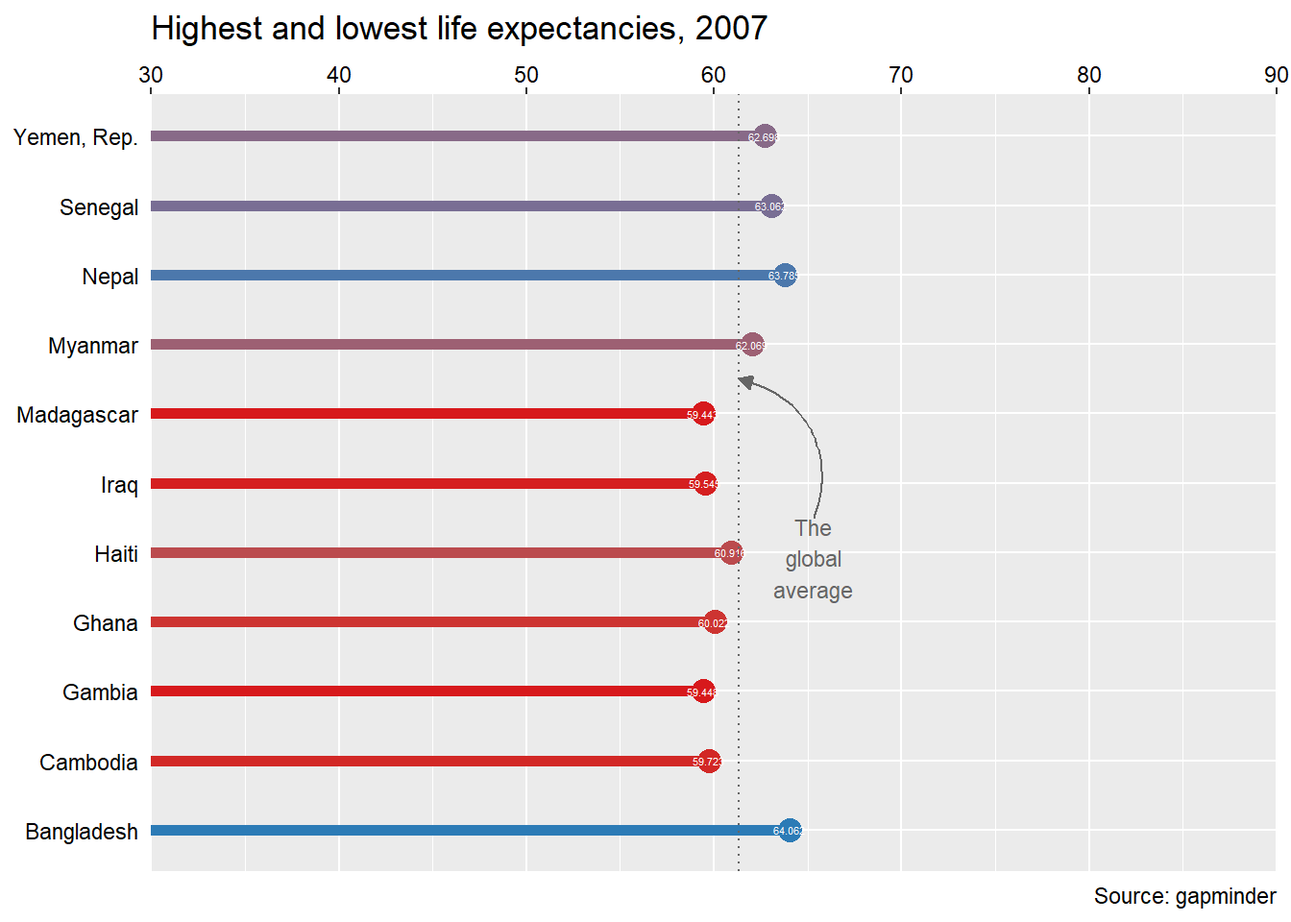
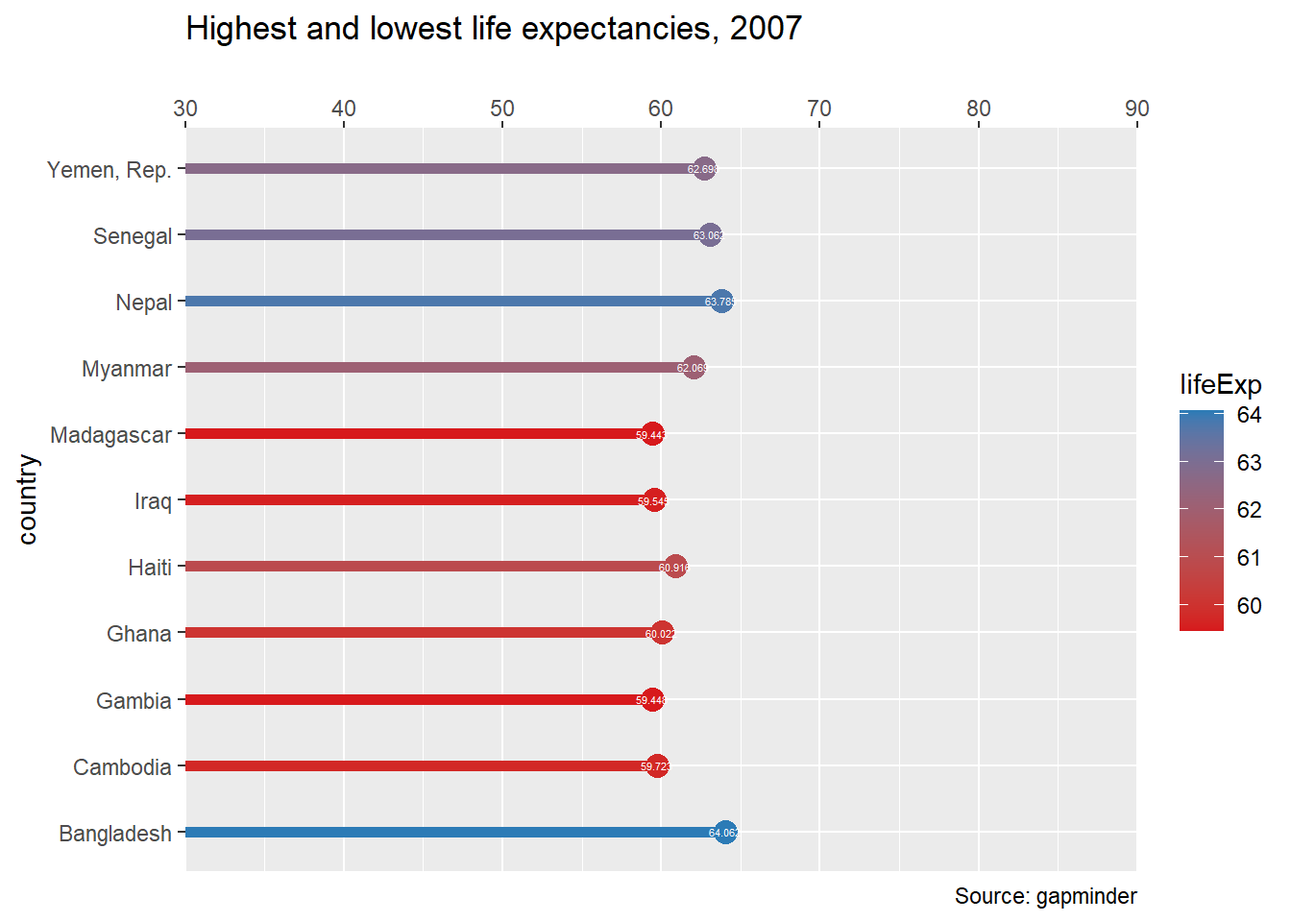
a

diff --git a/content/post/2021-05-13-data-manipulation-with-dplyr/index.html b/content/post/2021-05-13-data-manipulation-with-dplyr/index.html
@@ -22,20 +22,21 @@ tags:
 <script src="{{< blogdown/postref >}}index_files/plotly-main/plotly-latest.min.js"></script>
 
 
-<div id="r-package" class="section level2">
-<h2>R Package</h2>
-<p>dplyr, ggplot2, plotly, readxl and knitr.</p>
-<p>Functions that were used:</p>
-<p>read_excel() for read excel files</p>
-<p>filter() in order to make subsets of our data</p>
-<p>mutate() Create new variables</p>
-<p>as.factor() covert a variable in factor</p>
-<p>glimpse similar to str() applied to a dataframe</p>
-<p>group_by() takes an existing tbl and converts it into a grouped tbl where operations are performed “by group”</p>
-<p>summarise() o summarize() creates a new data frame that will have
-one or more rows for each combination of grouping variables</p>
-<p>n() used from within summarise, mutate and filter</p>
-</div>
+<div style="text-align: justify">
+
+<div id="r-packages" class="section level1">
+<h1>R Packages</h1>
+<p>we gonna use dplyr, ggplot2, plotly, readxl and knitr in this example.</p>
+<p><strong>Functions that were used:</strong></p>
+<p><strong>read_excel():</strong> for read excel files.</p>
+<p><strong>filter():</strong> in order to make subsets of our data.</p>
+<p><strong>mutate():</strong> To create new variables.</p>
+<p><strong>as.factor():</strong> To convert a variable in factor.</p>
+<p><strong>glimpse similar to str():</strong> applied to a dataframe.</p>
+<p><strong>group_by():</strong> takes an existing tbl and converts it into a grouped tbl where operations are performed “by group”.</p>
+<p><strong>summarise() o summarize():</strong> creates a new data frame that will have
+one or more rows for each combination of grouping variables.</p>
+<p><strong>n():</strong> used from within summarise, mutate and filter.</p>
 <div id="import-data" class="section level2">
 <h2>Import Data</h2>
 <pre class="r"><code>datos&lt;-  read_excel(path = &quot;/Users/Juan Alfredo.DESKTOP-ETJ31JC/Documents/Universidad/Termino 2020 2S/R Samples/Pagina/credit.xlsx&quot;, sheet = 2)</code></pre>
@@ -137,6 +138,7 @@ one or more rows for each combination of grouping variables</p>
 <p>In this way we can’t drop Na’s because the rows have values.</p>
 <pre class="r"><code>dt&lt;- datos %&gt;% filter( `Tipo Producto`!=&quot;Sobregiro&quot;)  </code></pre>
 <p>If we filter by “Sobregiro” we drop the NA’s in this “case”.</p>
+</div>
 </div>
 <div id="group-by-class" class="section level1">
 <h1>Group By Class</h1>
@@ -531,8 +533,18 @@ one or more rows for each combination of grouping variables</p>
 <h1>Data visualization</h1>
 <pre class="r"><code>ggplotly(p1)</code></pre>
 <div id="htmlwidget-1" style="width:672px;height:480px;" class="plotly html-widget"></div>
-<script type="application/json" data-for="htmlwidget-1">{"x":{"data":[{"orientation":"v","width":0.9,"base":0,"x":[1],"y":[8392],"text":"Sucursal: SATELITE 1<br />obser:  8392<br />Sucursal: SATELITE 1","type":"bar","marker":{"autocolorscale":false,"color":"rgba(248,118,109,1)","line":{"width":1.88976377952756,"color":"transparent"}},"name":"SATELITE 1","legendgroup":"SATELITE 1","showlegend":true,"xaxis":"x","yaxis":"y","hoverinfo":"text","frame":null},{"orientation":"v","width":0.9,"base":0,"x":[2],"y":[4110],"text":"Sucursal: SATELITE 2<br />obser:  4110<br />Sucursal: SATELITE 2","type":"bar","marker":{"autocolorscale":false,"color":"rgba(0,186,56,1)","line":{"width":1.88976377952756,"color":"transparent"}},"name":"SATELITE 2","legendgroup":"SATELITE 2","showlegend":true,"xaxis":"x","yaxis":"y","hoverinfo":"text","frame":null},{"orientation":"v","width":0.9,"base":0,"x":[3],"y":[17864],"text":"Sucursal: SUCURSAL MAYOR<br />obser: 17864<br />Sucursal: SUCURSAL MAYOR","type":"bar","marker":{"autocolorscale":false,"color":"rgba(97,156,255,1)","line":{"width":1.88976377952756,"color":"transparent"}},"name":"SUCURSAL MAYOR","legendgroup":"SUCURSAL MAYOR","showlegend":true,"xaxis":"x","yaxis":"y","hoverinfo":"text","frame":null}],"layout":{"margin":{"t":43.7625570776256,"r":7.30593607305936,"b":40.1826484018265,"l":54.7945205479452},"font":{"color":"rgba(0,0,0,1)","family":"","size":14.6118721461187},"title":{"text":"Branches","font":{"color":"rgba(0,0,0,1)","family":"","size":17.5342465753425},"x":0,"xref":"paper"},"xaxis":{"domain":[0,1],"automargin":true,"type":"linear","autorange":false,"range":[0.4,3.6],"tickmode":"array","ticktext":["SATELITE 1","SATELITE 2","SUCURSAL MAYOR"],"tickvals":[1,2,3],"categoryorder":"array","categoryarray":["SATELITE 1","SATELITE 2","SUCURSAL MAYOR"],"nticks":null,"ticks":"","tickcolor":null,"ticklen":3.65296803652968,"tickwidth":0,"showticklabels":true,"tickfont":{"color":"rgba(77,77,77,1)","family":"","size":11.689497716895},"tickangle":-0,"showline":false,"linecolor":null,"linewidth":0,"showgrid":true,"gridcolor":"rgba(235,235,235,1)","gridwidth":0.66417600664176,"zeroline":false,"anchor":"y","title":{"text":"Type","font":{"color":"rgba(0,0,0,1)","family":"","size":14.6118721461187}},"hoverformat":".2f"},"yaxis":{"domain":[0,1],"automargin":true,"type":"linear","autorange":false,"range":[-893.2,18757.2],"tickmode":"array","ticktext":["0","5000","10000","15000"],"tickvals":[0,5000,10000,15000],"categoryorder":"array","categoryarray":["0","5000","10000","15000"],"nticks":null,"ticks":"","tickcolor":null,"ticklen":3.65296803652968,"tickwidth":0,"showticklabels":true,"tickfont":{"color":"rgba(77,77,77,1)","family":"","size":11.689497716895},"tickangle":-0,"showline":false,"linecolor":null,"linewidth":0,"showgrid":true,"gridcolor":"rgba(235,235,235,1)","gridwidth":0.66417600664176,"zeroline":false,"anchor":"x","title":{"text":"Obsr","font":{"color":"rgba(0,0,0,1)","family":"","size":14.6118721461187}},"hoverformat":".2f"},"shapes":[{"type":"rect","fillcolor":null,"line":{"color":null,"width":0,"linetype":[]},"yref":"paper","xref":"paper","x0":0,"x1":1,"y0":0,"y1":1}],"showlegend":true,"legend":{"bgcolor":null,"bordercolor":null,"borderwidth":0,"font":{"color":"rgba(0,0,0,1)","family":"","size":11.689497716895},"y":0.96751968503937},"annotations":[{"text":"Sucursal","x":1.02,"y":1,"showarrow":false,"ax":0,"ay":0,"font":{"color":"rgba(0,0,0,1)","family":"","size":14.6118721461187},"xref":"paper","yref":"paper","textangle":-0,"xanchor":"left","yanchor":"bottom","legendTitle":true}],"hovermode":"closest","barmode":"relative"},"config":{"doubleClick":"reset","showSendToCloud":false},"source":"A","attrs":{"37bc30196e86":{"x":{},"y":{},"fill":{},"type":"bar"}},"cur_data":"37bc30196e86","visdat":{"37bc30196e86":["function (y) ","x"]},"highlight":{"on":"plotly_click","persistent":false,"dynamic":false,"selectize":false,"opacityDim":0.2,"selected":{"opacity":1},"debounce":0},"shinyEvents":["plotly_hover","plotly_click","plotly_selected","plotly_relayout","plotly_brushed","plotly_brushing","plotly_clickannotation","plotly_doubleclick","plotly_deselect","plotly_afterplot","plotly_sunburstclick"],"base_url":"https://plot.ly"},"evals":[],"jsHooks":[]}</script>
+<script type="application/json" data-for="htmlwidget-1">{"x":{"data":[{"orientation":"v","width":0.9,"base":0,"x":[1],"y":[8392],"text":"Sucursal: SATELITE 1<br />obser:  8392<br />Sucursal: SATELITE 1","type":"bar","marker":{"autocolorscale":false,"color":"rgba(248,118,109,1)","line":{"width":1.88976377952756,"color":"transparent"}},"name":"SATELITE 1","legendgroup":"SATELITE 1","showlegend":true,"xaxis":"x","yaxis":"y","hoverinfo":"text","frame":null},{"orientation":"v","width":0.9,"base":0,"x":[2],"y":[4110],"text":"Sucursal: SATELITE 2<br />obser:  4110<br />Sucursal: SATELITE 2","type":"bar","marker":{"autocolorscale":false,"color":"rgba(0,186,56,1)","line":{"width":1.88976377952756,"color":"transparent"}},"name":"SATELITE 2","legendgroup":"SATELITE 2","showlegend":true,"xaxis":"x","yaxis":"y","hoverinfo":"text","frame":null},{"orientation":"v","width":0.9,"base":0,"x":[3],"y":[17864],"text":"Sucursal: SUCURSAL MAYOR<br />obser: 17864<br />Sucursal: SUCURSAL MAYOR","type":"bar","marker":{"autocolorscale":false,"color":"rgba(97,156,255,1)","line":{"width":1.88976377952756,"color":"transparent"}},"name":"SUCURSAL MAYOR","legendgroup":"SUCURSAL MAYOR","showlegend":true,"xaxis":"x","yaxis":"y","hoverinfo":"text","frame":null}],"layout":{"margin":{"t":43.7625570776256,"r":7.30593607305936,"b":40.1826484018265,"l":54.7945205479452},"font":{"color":"rgba(0,0,0,1)","family":"","size":14.6118721461187},"title":{"text":"Branches","font":{"color":"rgba(0,0,0,1)","family":"","size":17.5342465753425},"x":0,"xref":"paper"},"xaxis":{"domain":[0,1],"automargin":true,"type":"linear","autorange":false,"range":[0.4,3.6],"tickmode":"array","ticktext":["SATELITE 1","SATELITE 2","SUCURSAL MAYOR"],"tickvals":[1,2,3],"categoryorder":"array","categoryarray":["SATELITE 1","SATELITE 2","SUCURSAL MAYOR"],"nticks":null,"ticks":"","tickcolor":null,"ticklen":3.65296803652968,"tickwidth":0,"showticklabels":true,"tickfont":{"color":"rgba(77,77,77,1)","family":"","size":11.689497716895},"tickangle":-0,"showline":false,"linecolor":null,"linewidth":0,"showgrid":true,"gridcolor":"rgba(235,235,235,1)","gridwidth":0.66417600664176,"zeroline":false,"anchor":"y","title":{"text":"Type","font":{"color":"rgba(0,0,0,1)","family":"","size":14.6118721461187}},"hoverformat":".2f"},"yaxis":{"domain":[0,1],"automargin":true,"type":"linear","autorange":false,"range":[-893.2,18757.2],"tickmode":"array","ticktext":["0","5000","10000","15000"],"tickvals":[0,5000,10000,15000],"categoryorder":"array","categoryarray":["0","5000","10000","15000"],"nticks":null,"ticks":"","tickcolor":null,"ticklen":3.65296803652968,"tickwidth":0,"showticklabels":true,"tickfont":{"color":"rgba(77,77,77,1)","family":"","size":11.689497716895},"tickangle":-0,"showline":false,"linecolor":null,"linewidth":0,"showgrid":true,"gridcolor":"rgba(235,235,235,1)","gridwidth":0.66417600664176,"zeroline":false,"anchor":"x","title":{"text":"Obsr","font":{"color":"rgba(0,0,0,1)","family":"","size":14.6118721461187}},"hoverformat":".2f"},"shapes":[{"type":"rect","fillcolor":null,"line":{"color":null,"width":0,"linetype":[]},"yref":"paper","xref":"paper","x0":0,"x1":1,"y0":0,"y1":1}],"showlegend":true,"legend":{"bgcolor":null,"bordercolor":null,"borderwidth":0,"font":{"color":"rgba(0,0,0,1)","family":"","size":11.689497716895},"y":0.96751968503937},"annotations":[{"text":"Sucursal","x":1.02,"y":1,"showarrow":false,"ax":0,"ay":0,"font":{"color":"rgba(0,0,0,1)","family":"","size":14.6118721461187},"xref":"paper","yref":"paper","textangle":-0,"xanchor":"left","yanchor":"bottom","legendTitle":true}],"hovermode":"closest","barmode":"relative"},"config":{"doubleClick":"reset","showSendToCloud":false},"source":"A","attrs":{"65904dec29df":{"x":{},"y":{},"fill":{},"type":"bar"}},"cur_data":"65904dec29df","visdat":{"65904dec29df":["function (y) ","x"]},"highlight":{"on":"plotly_click","persistent":false,"dynamic":false,"selectize":false,"opacityDim":0.2,"selected":{"opacity":1},"debounce":0},"shinyEvents":["plotly_hover","plotly_click","plotly_selected","plotly_relayout","plotly_brushed","plotly_brushing","plotly_clickannotation","plotly_doubleclick","plotly_deselect","plotly_afterplot","plotly_sunburstclick"],"base_url":"https://plot.ly"},"evals":[],"jsHooks":[]}</script>
 <pre class="r"><code>ggplotly(p2)</code></pre>
 <div id="htmlwidget-2" style="width:672px;height:480px;" class="plotly html-widget"></div>
-<script type="application/json" data-for="htmlwidget-2">{"x":{"data":[{"orientation":"v","width":[0.9,0.9,0.9],"base":[0,121996.718715993,201596.226590008],"x":[1,1,1],"y":[121996.718715993,79599.5078740158,57738.304029249],"text":["Tipo Crédito: COMERCIALES<br />mean_cred: 121996.719<br />Tipo Crédito: COMERCIALES","Tipo Crédito: COMERCIALES<br />mean_cred:  79599.508<br />Tipo Crédito: COMERCIALES","Tipo Crédito: COMERCIALES<br />mean_cred:  57738.304<br />Tipo Crédito: COMERCIALES"],"type":"bar","marker":{"autocolorscale":false,"color":"rgba(248,118,109,1)","line":{"width":1.88976377952756,"color":"transparent"}},"name":"COMERCIALES","legendgroup":"COMERCIALES","showlegend":true,"xaxis":"x","yaxis":"y","hoverinfo":"text","frame":null},{"orientation":"v","width":[0.9,0.9,0.9],"base":[0,11816.9209375,23501.3547978435],"x":[2,2,2],"y":[11816.9209375,11684.4338603435,11938.9432717581],"text":["Tipo Crédito: CONSUMO<br />mean_cred:  11816.921<br />Tipo Crédito: CONSUMO","Tipo Crédito: CONSUMO<br />mean_cred:  11684.434<br />Tipo Crédito: CONSUMO","Tipo Crédito: CONSUMO<br />mean_cred:  11938.943<br />Tipo Crédito: CONSUMO"],"type":"bar","marker":{"autocolorscale":false,"color":"rgba(124,174,0,1)","line":{"width":1.88976377952756,"color":"transparent"}},"name":"CONSUMO","legendgroup":"CONSUMO","showlegend":true,"xaxis":"x","yaxis":"y","hoverinfo":"text","frame":null},{"orientation":"v","width":[0.9,0.9,0.9],"base":[0,7102.30882352941,15007.5633582516],"x":[3,3,3],"y":[7102.30882352941,7905.25453472222,9138.62447344229],"text":["Tipo Crédito: MICROEMPRESA<br />mean_cred:   7102.309<br />Tipo Crédito: MICROEMPRESA","Tipo Crédito: MICROEMPRESA<br />mean_cred:   7905.255<br />Tipo Crédito: MICROEMPRESA","Tipo Crédito: MICROEMPRESA<br />mean_cred:   9138.624<br />Tipo Crédito: MICROEMPRESA"],"type":"bar","marker":{"autocolorscale":false,"color":"rgba(0,191,196,1)","line":{"width":1.88976377952756,"color":"transparent"}},"name":"MICROEMPRESA","legendgroup":"MICROEMPRESA","showlegend":true,"xaxis":"x","yaxis":"y","hoverinfo":"text","frame":null},{"orientation":"v","width":[0.9,0.9,0.9],"base":[0,50573.9417474619,109715.149064535],"x":[4,4,4],"y":[50573.9417474619,59141.2073170732,55759.8534891304],"text":["Tipo Crédito: VIVIENDA<br />mean_cred:  50573.942<br />Tipo Crédito: VIVIENDA","Tipo Crédito: VIVIENDA<br />mean_cred:  59141.207<br />Tipo Crédito: VIVIENDA","Tipo Crédito: VIVIENDA<br />mean_cred:  55759.853<br />Tipo Crédito: VIVIENDA"],"type":"bar","marker":{"autocolorscale":false,"color":"rgba(199,124,255,1)","line":{"width":1.88976377952756,"color":"transparent"}},"name":"VIVIENDA","legendgroup":"VIVIENDA","showlegend":true,"xaxis":"x","yaxis":"y","hoverinfo":"text","frame":null}],"layout":{"margin":{"t":43.7625570776256,"r":7.30593607305936,"b":40.1826484018265,"l":54.7945205479452},"font":{"color":"rgba(0,0,0,1)","family":"","size":14.6118721461187},"title":{"text":"Credit","font":{"color":"rgba(0,0,0,1)","family":"","size":17.5342465753425},"x":0,"xref":"paper"},"xaxis":{"domain":[0,1],"automargin":true,"type":"linear","autorange":false,"range":[0.4,4.6],"tickmode":"array","ticktext":["COMERCIALES","CONSUMO","MICROEMPRESA","VIVIENDA"],"tickvals":[1,2,3,4],"categoryorder":"array","categoryarray":["COMERCIALES","CONSUMO","MICROEMPRESA","VIVIENDA"],"nticks":null,"ticks":"","tickcolor":null,"ticklen":3.65296803652968,"tickwidth":0,"showticklabels":true,"tickfont":{"color":"rgba(77,77,77,1)","family":"","size":11.689497716895},"tickangle":-0,"showline":false,"linecolor":null,"linewidth":0,"showgrid":true,"gridcolor":"rgba(235,235,235,1)","gridwidth":0.66417600664176,"zeroline":false,"anchor":"y","title":{"text":"Credit types","font":{"color":"rgba(0,0,0,1)","family":"","size":14.6118721461187}},"hoverformat":".2f"},"yaxis":{"domain":[0,1],"automargin":true,"type":"linear","autorange":false,"range":[-12966.7265309629,272301.25715022],"tickmode":"array","ticktext":["0e+00","1e+05","2e+05"],"tickvals":[-1.81898940354586e-12,100000,200000],"categoryorder":"array","categoryarray":["0e+00","1e+05","2e+05"],"nticks":null,"ticks":"","tickcolor":null,"ticklen":3.65296803652968,"tickwidth":0,"showticklabels":true,"tickfont":{"color":"rgba(77,77,77,1)","family":"","size":11.689497716895},"tickangle":-0,"showline":false,"linecolor":null,"linewidth":0,"showgrid":true,"gridcolor":"rgba(235,235,235,1)","gridwidth":0.66417600664176,"zeroline":false,"anchor":"x","title":{"text":"Initial Amount ","font":{"color":"rgba(0,0,0,1)","family":"","size":14.6118721461187}},"hoverformat":".2f"},"shapes":[{"type":"rect","fillcolor":null,"line":{"color":null,"width":0,"linetype":[]},"yref":"paper","xref":"paper","x0":0,"x1":1,"y0":0,"y1":1}],"showlegend":true,"legend":{"bgcolor":null,"bordercolor":null,"borderwidth":0,"font":{"color":"rgba(0,0,0,1)","family":"","size":11.689497716895},"y":0.96751968503937},"annotations":[{"text":"Tipo Crédito","x":1.02,"y":1,"showarrow":false,"ax":0,"ay":0,"font":{"color":"rgba(0,0,0,1)","family":"","size":14.6118721461187},"xref":"paper","yref":"paper","textangle":-0,"xanchor":"left","yanchor":"bottom","legendTitle":true}],"hovermode":"closest","barmode":"relative"},"config":{"doubleClick":"reset","showSendToCloud":false},"source":"A","attrs":{"37bce9546a2":{"x":{},"y":{},"fill":{},"type":"bar"}},"cur_data":"37bce9546a2","visdat":{"37bce9546a2":["function (y) ","x"]},"highlight":{"on":"plotly_click","persistent":false,"dynamic":false,"selectize":false,"opacityDim":0.2,"selected":{"opacity":1},"debounce":0},"shinyEvents":["plotly_hover","plotly_click","plotly_selected","plotly_relayout","plotly_brushed","plotly_brushing","plotly_clickannotation","plotly_doubleclick","plotly_deselect","plotly_afterplot","plotly_sunburstclick"],"base_url":"https://plot.ly"},"evals":[],"jsHooks":[]}</script>
+<script type="application/json" data-for="htmlwidget-2">{"x":{"data":[{"orientation":"v","width":[0.9,0.9,0.9],"base":[0,121996.718715993,201596.226590008],"x":[1,1,1],"y":[121996.718715993,79599.5078740158,57738.304029249],"text":["Tipo Crédito: COMERCIALES<br />mean_cred: 121996.719<br />Tipo Crédito: COMERCIALES","Tipo Crédito: COMERCIALES<br />mean_cred:  79599.508<br />Tipo Crédito: COMERCIALES","Tipo Crédito: COMERCIALES<br />mean_cred:  57738.304<br />Tipo Crédito: COMERCIALES"],"type":"bar","marker":{"autocolorscale":false,"color":"rgba(248,118,109,1)","line":{"width":1.88976377952756,"color":"transparent"}},"name":"COMERCIALES","legendgroup":"COMERCIALES","showlegend":true,"xaxis":"x","yaxis":"y","hoverinfo":"text","frame":null},{"orientation":"v","width":[0.9,0.9,0.9],"base":[0,11816.9209375,23501.3547978435],"x":[2,2,2],"y":[11816.9209375,11684.4338603435,11938.9432717581],"text":["Tipo Crédito: CONSUMO<br />mean_cred:  11816.921<br />Tipo Crédito: CONSUMO","Tipo Crédito: CONSUMO<br />mean_cred:  11684.434<br />Tipo Crédito: CONSUMO","Tipo Crédito: CONSUMO<br />mean_cred:  11938.943<br />Tipo Crédito: CONSUMO"],"type":"bar","marker":{"autocolorscale":false,"color":"rgba(124,174,0,1)","line":{"width":1.88976377952756,"color":"transparent"}},"name":"CONSUMO","legendgroup":"CONSUMO","showlegend":true,"xaxis":"x","yaxis":"y","hoverinfo":"text","frame":null},{"orientation":"v","width":[0.9,0.9,0.9],"base":[0,7102.30882352941,15007.5633582516],"x":[3,3,3],"y":[7102.30882352941,7905.25453472222,9138.62447344229],"text":["Tipo Crédito: MICROEMPRESA<br />mean_cred:   7102.309<br />Tipo Crédito: MICROEMPRESA","Tipo Crédito: MICROEMPRESA<br />mean_cred:   7905.255<br />Tipo Crédito: MICROEMPRESA","Tipo Crédito: MICROEMPRESA<br />mean_cred:   9138.624<br />Tipo Crédito: MICROEMPRESA"],"type":"bar","marker":{"autocolorscale":false,"color":"rgba(0,191,196,1)","line":{"width":1.88976377952756,"color":"transparent"}},"name":"MICROEMPRESA","legendgroup":"MICROEMPRESA","showlegend":true,"xaxis":"x","yaxis":"y","hoverinfo":"text","frame":null},{"orientation":"v","width":[0.9,0.9,0.9],"base":[0,50573.9417474619,109715.149064535],"x":[4,4,4],"y":[50573.9417474619,59141.2073170732,55759.8534891304],"text":["Tipo Crédito: VIVIENDA<br />mean_cred:  50573.942<br />Tipo Crédito: VIVIENDA","Tipo Crédito: VIVIENDA<br />mean_cred:  59141.207<br />Tipo Crédito: VIVIENDA","Tipo Crédito: VIVIENDA<br />mean_cred:  55759.853<br />Tipo Crédito: VIVIENDA"],"type":"bar","marker":{"autocolorscale":false,"color":"rgba(199,124,255,1)","line":{"width":1.88976377952756,"color":"transparent"}},"name":"VIVIENDA","legendgroup":"VIVIENDA","showlegend":true,"xaxis":"x","yaxis":"y","hoverinfo":"text","frame":null}],"layout":{"margin":{"t":43.7625570776256,"r":7.30593607305936,"b":40.1826484018265,"l":54.7945205479452},"font":{"color":"rgba(0,0,0,1)","family":"","size":14.6118721461187},"title":{"text":"Credit","font":{"color":"rgba(0,0,0,1)","family":"","size":17.5342465753425},"x":0,"xref":"paper"},"xaxis":{"domain":[0,1],"automargin":true,"type":"linear","autorange":false,"range":[0.4,4.6],"tickmode":"array","ticktext":["COMERCIALES","CONSUMO","MICROEMPRESA","VIVIENDA"],"tickvals":[1,2,3,4],"categoryorder":"array","categoryarray":["COMERCIALES","CONSUMO","MICROEMPRESA","VIVIENDA"],"nticks":null,"ticks":"","tickcolor":null,"ticklen":3.65296803652968,"tickwidth":0,"showticklabels":true,"tickfont":{"color":"rgba(77,77,77,1)","family":"","size":11.689497716895},"tickangle":-0,"showline":false,"linecolor":null,"linewidth":0,"showgrid":true,"gridcolor":"rgba(235,235,235,1)","gridwidth":0.66417600664176,"zeroline":false,"anchor":"y","title":{"text":"Credit types","font":{"color":"rgba(0,0,0,1)","family":"","size":14.6118721461187}},"hoverformat":".2f"},"yaxis":{"domain":[0,1],"automargin":true,"type":"linear","autorange":false,"range":[-12966.7265309629,272301.25715022],"tickmode":"array","ticktext":["0e+00","1e+05","2e+05"],"tickvals":[-1.81898940354586e-12,100000,200000],"categoryorder":"array","categoryarray":["0e+00","1e+05","2e+05"],"nticks":null,"ticks":"","tickcolor":null,"ticklen":3.65296803652968,"tickwidth":0,"showticklabels":true,"tickfont":{"color":"rgba(77,77,77,1)","family":"","size":11.689497716895},"tickangle":-0,"showline":false,"linecolor":null,"linewidth":0,"showgrid":true,"gridcolor":"rgba(235,235,235,1)","gridwidth":0.66417600664176,"zeroline":false,"anchor":"x","title":{"text":"Initial Amount ","font":{"color":"rgba(0,0,0,1)","family":"","size":14.6118721461187}},"hoverformat":".2f"},"shapes":[{"type":"rect","fillcolor":null,"line":{"color":null,"width":0,"linetype":[]},"yref":"paper","xref":"paper","x0":0,"x1":1,"y0":0,"y1":1}],"showlegend":true,"legend":{"bgcolor":null,"bordercolor":null,"borderwidth":0,"font":{"color":"rgba(0,0,0,1)","family":"","size":11.689497716895},"y":0.96751968503937},"annotations":[{"text":"Tipo Crédito","x":1.02,"y":1,"showarrow":false,"ax":0,"ay":0,"font":{"color":"rgba(0,0,0,1)","family":"","size":14.6118721461187},"xref":"paper","yref":"paper","textangle":-0,"xanchor":"left","yanchor":"bottom","legendTitle":true}],"hovermode":"closest","barmode":"relative"},"config":{"doubleClick":"reset","showSendToCloud":false},"source":"A","attrs":{"65904c6813be":{"x":{},"y":{},"fill":{},"type":"bar"}},"cur_data":"65904c6813be","visdat":{"65904c6813be":["function (y) ","x"]},"highlight":{"on":"plotly_click","persistent":false,"dynamic":false,"selectize":false,"opacityDim":0.2,"selected":{"opacity":1},"debounce":0},"shinyEvents":["plotly_hover","plotly_click","plotly_selected","plotly_relayout","plotly_brushed","plotly_brushing","plotly_clickannotation","plotly_doubleclick","plotly_deselect","plotly_afterplot","plotly_sunburstclick"],"base_url":"https://plot.ly"},"evals":[],"jsHooks":[]}</script>
+<div/>
+
+
+
+
+
+
+
+
+
 </div>

diff --git a/content/article/2021-05-20-trafico/index.html b/content/article/2021-05-20-trafico/index.html
@@ -13,30 +13,28 @@ output:
   html_document: 
     theme: readable
     number_sections: yes
+    
+   
 ---
 
 <script src="{{< blogdown/postref >}}index_files/header-attrs/header-attrs.js"></script>
 
 
-<p>Asunto: Oportunidad para promover acciones que detengan el tráfico de especies y plantas en Argentina.</p>
+<div style="text-align: justify">
+
+<p><strong>Asunto: Oportunidad para promover acciones que detengan el tráfico de especies y plantas en Argentina.</strong></p>
 <p>El crecimiento del comercio ilegal de vida silvestre es una tendencia en América Latina y nuestro país no escapa de esta realidad. Se ha convertido en uno de los delitos transnacionales que pone en riesgo a especies llevándolas en algunos casos cerca de la extinción. Este tipo de delito está clasificado como la cuarta actividad delictiva más lucrativa y suele estar relacionada con el tráfico de drogas y armas, aunque su riesgo es mucho menor.</p>
 <p>La inacción estatal en esta temática es evidente en nuestro país. Los escasos controles, la débil legislación, el no considerar al tráfico de fauna como una forma de crimen organizado y el hecho de hacer énfasis a la hora de castigar y procesar a los delincuentes del primer eslabón de la cadena y no en las demás partes implicadas en el delito, son muestra de ello. Por ello recomiendo incorporar este tema en la agenda impulsando una nueva legislación desde el parlamento que impliquen cambios en la percepción de este delito y profesionalice los organismos de control y cooperación.</p>
-<div id="tráfico-de-flora-y-fauna-en-argentina" class="section level3">
-<h3>1. Tráfico de flora y fauna en Argentina</h3>
+<p><strong>1. Tráfico de flora y fauna en Argentina</strong></p>
 <p>El comercio ilegal de animales y plantas es uno de los negocios más lucrativos en el mundo, ya que, mueve grandes cantidades de dinero. Un informe de Naciones Unidas e INTERPOL estimó que a nivel mundial el tráfico ilícito de flora y fauna mueve hasta 23.000 millones de dólares en el mundo; en Argentina se calcula que esta cifra es de 50 millones de dólares por año.</p>
 <p>Por su ilegalidad, los registros oficiales acerca de la cantidad de animales silvestres y plantas que son removidos de su hábitat natural en Argentina, son prácticamente inexistentes. Sin embargo, una investigación publicada en el 2017 que detalla información sobre un muestreo del tráfico de especies en el país, revela que 7500 animales (vivos y muertos) estuvieron involucrados en el comercio ilícito durante un solo año (2016), esto resulta ser mayor a la población (1500) libre y cautiva que se encuentra dentro del Ecoparque en CABA.</p>
 <p>Los métodos utilizados por estas estructuras delictivas en el país van desde el robo de los animales hasta la caza ilegal. Los animales y plantas que se sustraen de la naturaleza se venden localmente como mascotas e internacionalmente como piezas de colección y en algunos casos como carne comestible. Se calcula que uno de cada diez animales sobrevive a este proceso. En cuanto a las especies más comercializadas se destacan las aves, siendo las más típicas el cardenal común y amarillo, tucán y loro hablador. También distintos tipos de reptiles, felinos, tortugas, ciervos, mamíferos marinos y edentados.</p>
 <p>Estas modalidades delictivas están creando un impacto negativo en la naturaleza, ya que, la pérdida de flora y fauna implica un desequilibrio del ecosistema, y una pérdida de los institutos de caza de los animales. Esto no solo afecta al mundo silvestre sino también perjudica las actividades humanas, ya que, los animales capturados son transmisores de enfermedades y virus. Una muestra de ello, fue la transmisión del virus SARS COVID-19. Según la División de Fauna del Departamento de Delitos Ambientales de la Policía Federal Argentina más de 1500 especies de animales y 25000 plantas se encuentran en peligro de extinción por el tráfico ilegal de especies y plantas.</p>
-</div>
-<div id="inacción-percepción-errónea-y-nula-coordinación-frente-al-tráfico-ilegal-de-vida-silvestre." class="section level3">
-<h3>2. Inacción, percepción errónea y nula coordinación frente al tráfico ilegal de vida silvestre.</h3>
+<p><strong>2. Inacción, percepción errónea y nula coordinación frente al tráfico ilegal de vida silvestre.</strong></p>
 <p>El crecimiento del tráfico ilegal de vida silvestre en nuestro país es consecuencia de la inacción estatal en algunas áreas. En primer lugar, nuestro país no considera a estos delitos como parte del crimen organizado. Por otra parte, el escaso control por parte de fuerzas de seguridad profesionales permite que Argentina sea un país donde este delito pueda expandirse cada vez más.</p>
 <p>Los delitos de este tipo nunca tuvieron una legislación lo suficientemente robusta para otorgar penas duras. Los castigos o costos de realizar esta actividad son menores que los beneficios ya que se trata de un delito excarcelable en nuestro país. Aquellos que son castigados son los que forman parte del primer eslabón de la cadena. Si nuestro país considerara al tráfico ilegal de vida silvestre como parte del crimen organizado se podría concentrar esfuerzos en las demás partes implicadas que son las que lideran estas redes de tráfico.</p>
 <p>Por otra parte, la poca presencia de fuerzas de seguridad permite que prácticas como el robo y la caza ilegal sigan siendo las formas predilectas de sustracción de vida silvestre. Una de las características de nuestro país son las grandes extensiones de terrenos donde se encuentran los animales y plantas, por lo que hace más fácil estas prácticas tanto de nacionales como de extranjeros. Las principales rutas de ingreso son por Bolivia, Paraguay, Chile y Brasil. Siendo este un delito transnacional, que opera en redes, se torna necesaria la cooperación a nivel nacional (entre fuerzas provinciales) y a nivel internacional.</p>
-</div>
-<div id="recomendaciones" class="section level3">
-<h3>3. Recomendaciones</h3>
+<p><strong>3. Recomendaciones</strong></p>
 <p>Nuestro país está siendo víctima de un tipo de delito poco dimensionado donde lo que se pone en riesgo es nuestra naturaleza. La pérdida de vida silvestre implica cambios en los ecosistemas y tiene como consecuencia el peligro de extinción de plantas y animales nativos. Al tratarse de un delito transnacional, la gobernabilidad de nuestro país se pone en jaque al no poder dar respuestas a esta problemática. Millones de dólares son utilizados para financiar otros tipos de delitos como la venta de drogas y armas y para el lavado de dinero. Nuestra legislación es bastante laxa en esta temática, y los beneficios que trae aparejado estos delitos en relación a los castigos es bastante superior. Por ello, recomiendo incorporar en agenda este tema y modificar su legislación para que pase a considerarse un delito de crimen organizado y que se prevea la creación de un cuerpo de seguridad profesional que pueda actuar en coordinación con otras fuerzas nacionales e internacionales.</p>
 <p>Una reforma en la legislación vigente implicaría cambiar la concepción sobre este delito y comenzar a tratarlo como un delito de crimen organizado. De esta manera las penas dejaran de ser excarcelables y los recursos/esfuerzos destinados a la protección de la vida silvestre serian acordes a la dimensión de la problemática. En paralelo y como consecuencia de esta reforma, es necesario la creación de un cuerpo de seguridad profesional que trabaje de manera coordinada con las ya existentes fuerzas provinciales y con fuerzas de países limítrofes. Para la profesionalización será necesario realizar cursos y capacitaciones acerca de buenas prácticas, crear mecanismos de disuasión, y llevar adelante una política de tolerancia cero en materia de corrupción.</p>
-<p></justify></p>
-</div>
+<div/>

diff --git a/content/post/2021-05-08-ggplot/index.html b/content/post/2021-05-08-ggplot/index.html
@@ -14,23 +14,28 @@ tags:
 <script src="{{< blogdown/postref >}}index_files/header-attrs/header-attrs.js"></script>
 
 
-<p>##ggplot2 + Themes</p>
-<pre class="r"><code>library(dplyr)</code></pre>
-<pre><code>## 
-## Attaching package: &#39;dplyr&#39;</code></pre>
-<pre><code>## The following objects are masked from &#39;package:stats&#39;:
-## 
-##     filter, lag</code></pre>
-<pre><code>## The following objects are masked from &#39;package:base&#39;:
-## 
-##     intersect, setdiff, setequal, union</code></pre>
-<pre class="r"><code>library(gapminder)</code></pre>
-<pre><code>## Warning: package &#39;gapminder&#39; was built under R version 4.0.5</code></pre>
-<pre class="r"><code>library(RColorBrewer)
+<div style="text-align: justify">
 
-library(ggplot2)
 
-data(&quot;gapminder&quot;)</code></pre>
+
+<p>We gonna use dplyr, gapminder, RColorBrewer, ggplot2 libraries in this example.</p>
+<p>Let’s load gapminder data frame and see colnames.</p>
+<pre class="r"><code>data(&quot;gapminder&quot;)
+colnames(gapminder)</code></pre>
+<pre><code>## [1] &quot;country&quot;   &quot;continent&quot; &quot;year&quot;      &quot;lifeExp&quot;   &quot;pop&quot;       &quot;gdpPercap&quot;</code></pre>
+<p>gapminder is a data frame with 9 variables and more than 10 thousand observations. In variables we have country names, continent, year, life expectancy, population and gross domestic product per capita.</p>
+<pre class="r"><code>gapminder %&gt;% head()</code></pre>
+<pre><code>## # A tibble: 6 x 6
+##   country     continent  year lifeExp      pop gdpPercap
+##   &lt;fct&gt;       &lt;fct&gt;     &lt;int&gt;   &lt;dbl&gt;    &lt;int&gt;     &lt;dbl&gt;
+## 1 Afghanistan Asia       1952    28.8  8425333      779.
+## 2 Afghanistan Asia       1957    30.3  9240934      821.
+## 3 Afghanistan Asia       1962    32.0 10267083      853.
+## 4 Afghanistan Asia       1967    34.0 11537966      836.
+## 5 Afghanistan Asia       1972    36.1 13079460      740.
+## 6 Afghanistan Asia       1977    38.4 14880372      786.</code></pre>
+<div id="explore-data" class="section level2">
+<h2>Explore Data</h2>
 <pre class="r"><code>glimpse(gapminder)</code></pre>
 <pre><code>## Rows: 1,704
 ## Columns: 6
@@ -40,9 +45,25 @@ data(&quot;gapminder&quot;)</code></pre>
 ## $ lifeExp   &lt;dbl&gt; 28.801, 30.332, 31.997, 34.020, 36.088, 38.438, 39.854, 40.8~
 ## $ pop       &lt;int&gt; 8425333, 9240934, 10267083, 11537966, 13079460, 14880372, 12~
 ## $ gdpPercap &lt;dbl&gt; 779.4453, 820.8530, 853.1007, 836.1971, 739.9811, 786.1134, ~</code></pre>
+</div>
+<div id="mutate-and-filter" class="section level2">
+<h2>Mutate and Filter</h2>
+<p>For this example we gonna create a new variable called promedio global and our year of analysis will be 2007. Also, let’s take a portion of countries to visualize much better the graphics.</p>
 <pre class="r"><code>datos&lt;- gapminder %&gt;% filter(year==&quot;2007&quot; ) %&gt;% arrange((lifeExp)) %&gt;% mutate(promedio_global= mean(lifeExp))
 
 datos2007&lt;- datos[40:50,]</code></pre>
+</div>
+<div id="ggplot2-themes" class="section level2">
+<h2>ggplot2 + Themes</h2>
+<p>There are some functions that we can add through our plots . In order to make them more informative:</p>
+<p><strong>brewer.pal:</strong> makes the color palettes from ColorBrewer available as R palettes. <a href="https://cran.r-project.org/web/packages/RColorBrewer/RColorBrewer.pdf">Source 1</a></p>
+<p><strong>Themes:</strong> Themes are a powerful way to customize the non-data components of your plots: i.e. titles, labels, fonts, background, gridlines, and legends. <a href="https://www.rdocumentation.org/packages/ggplot2/versions/3.3.3/topics/theme">Source 2</a></p>
+<p><strong>geom_point:</strong> The point geom is used to create scatterplots. <a href="https://www.rdocumentation.org/packages/ggplot2/versions/3.3.3/topics/geom_point">Source 3</a></p>
+<p><strong>geom_text:</strong> Adds only text to the plot <a href="https://www.rdocumentation.org/packages/ggplot2/versions/3.3.3/topics/geom_label">Source 4</a></p>
+<p><strong>geom_segment:</strong> Draws a straight line between points (x, y) and (xend, yend). <a href="https://www.rdocumentation.org/packages/ggplot2/versions/3.3.3/topics/geom_segment">Source 5</a></p>
+<p><strong>geom_vline:</strong> This geom allows you to annotate the plot with vertical lines. <a href="https://www.rdocumentation.org/packages/ggplot2/versions/0.9.1/topics/geom_vline">Source 6</a></p>
+<div id="examples" class="section level3">
+<h3>Examples</h3>
 <pre class="r"><code># Add a geom_segment() layer
 palette &lt;- brewer.pal(5, &quot;RdYlBu&quot;)[-(2:4)]
 plt_country_vs_lifeExp&lt;-ggplot(datos2007, aes(x = lifeExp, y = country, color = lifeExp)) +
@@ -50,8 +71,9 @@ plt_country_vs_lifeExp&lt;-ggplot(datos2007, aes(x = lifeExp, y = country, color
   geom_segment(aes(xend = 30, yend = country), size = 2) +
   geom_text(aes(label = lifeExp), color = &quot;white&quot;, size = 1.5) +  scale_x_continuous(&quot;&quot;, expand = c(0,0), limits = c(30,90), position = &quot;top&quot;) +
   scale_color_gradientn(colors = palette) + labs(title=&quot;Highest and lowest life expectancies, 2007&quot;, caption=&quot;Source: gapminder&quot;)
+
 plt_country_vs_lifeExp</code></pre>
-<p><img src="{{< blogdown/postref >}}index_files/figure-html/unnamed-chunk-3-1.png" width="672" /></p>
+<p><img src="{{< blogdown/postref >}}index_files/figure-html/unnamed-chunk-6-1.png" width="672" /></p>
 <pre class="r"><code>## More adds 
 #Define the theme
 plt_country_vs_lifeExp +
@@ -61,7 +83,7 @@ plt_country_vs_lifeExp +
         axis.text = element_text(color=&quot;black&quot;),
         axis.title = element_blank(),
         legend.position= &quot;none&quot;)</code></pre>
-<p><img src="{{< blogdown/postref >}}index_files/figure-html/unnamed-chunk-4-1.png" width="672" /></p>
+<p><img src="{{< blogdown/postref >}}index_files/figure-html/unnamed-chunk-7-1.png" width="672" /></p>
 <pre class="r"><code># Add a theme 
 step_1_themes &lt;-theme(axis.line.y = element_blank(),
       axis.ticks.y = element_blank(),
@@ -83,7 +105,7 @@ plt_country_vs_lifeExp +
     x = x_start, y = y_start,
     label = &quot;The\nglobal\naverage&quot;,
     vjust = 1, size = 3, color = &quot;grey40&quot;)</code></pre>
-<p><img src="{{< blogdown/postref >}}index_files/figure-html/unnamed-chunk-5-1.png" width="672" /></p>
+<p><img src="{{< blogdown/postref >}}index_files/figure-html/unnamed-chunk-8-1.png" width="672" /></p>
 <pre class="r"><code>#asignamos a annotate a una variable para rebajar el codigo
 step_3_annotation &lt;- annotate(
   &quot;text&quot;,
@@ -102,4 +124,9 @@ plt_country_vs_lifeExp +
     xend = x_end, yend = y_end,
     arrow = arrow(length= unit(0.2, &quot;cm&quot;), type = &quot;closed&quot;),
     color = &quot;grey40&quot;)</code></pre>
-<p><img src="{{< blogdown/postref >}}index_files/figure-html/unnamed-chunk-6-1.png" width="672" /></p>
+<p><img src="{{< blogdown/postref >}}index_files/figure-html/unnamed-chunk-9-1.png" width="672" /></p>
+<div/>
+
+
+</div>
+</div>

diff --git a/content/post/2021-05-08-introduction-to-financial-time-series-in-r/index.html b/content/post/2021-05-08-introduction-to-financial-time-series-in-r/index.html
@@ -15,17 +15,20 @@ description: ''
 <script src="{{< blogdown/postref >}}index_files/header-attrs/header-attrs.js"></script>
 
 
+<div style="text-align: justify">
+
 <div id="financial-series" class="section level1">
 <h1>Financial series</h1>
-<p>This post brings a quick overview of financial series in R. It’s common analyze time series in advanced economics or finance courses. Some courses and depending of university use a particular software for this purpose, from Excel to high-level programming languages like Stata, R or Python. In this case, I’m going to show how to get the financial series from Yahoo Finance by two methods. First, I’ll do it within a long code using quantmond library, after that I gonna use tidyquant library to reduce the previous code and automatize it.</p>
+<p>This post brings a quick overview of financial series in R. It’s common analyze time series in advanced economics or finance courses. Some courses and depending of university use a particular software for this purpose, from Excel to high-level programming languages like Stata, R or Python. In this case, I’m going to show how to get the financial series from Yahoo Finance by two methods. First, I’ll do it within a long code using <strong>quantmond</strong> library, after that I gonna use <strong>tidyquant</strong> library to reduce the previous code and automatize it.</p>
 <p>In order to manipulate our data we gonna call dplyr and quantmod to get the financial series. Let’s begin with four stocks: Google, Apple, Facebook and Amazon.</p>
 <pre class="r"><code>library(dplyr)
 library(quantmod)</code></pre>
-<p>The function getSymbols from quantmod is a useful tool that brings our stocks from Yahoo sources. There are some parameters in the function like Symbols, env, return.class, from, to, periodicity that can be change.</p>
-<p>Symbols: there are a lot of stock stickers visible on Yahoo finance page.</p>
-<p>Stickers: “FB”, “GOOG”,“AAPL”,“AMZN”.</p>
-<p>xts in return.class is a way to get time series object,
-from and to are filled with a range of dates, periodicity could be yearly, quarterly or monthly.</p>
+<p>The function <strong>getSymbols</strong> from quantmod is a useful tool that brings our stocks from Yahoo sources. There are some parameters in the function like Symbols, env, return.class, from, to, periodicity that can be change.</p>
+<p><strong>Symbols:</strong> there are a lot of stock stickers visible on Yahoo finance page.</p>
+<p><strong>Stickers:</strong> “FB”, “GOOG”,“AAPL”,“AMZN”.</p>
+<p><strong>xts:</strong> in return.class is a way to get time series object.</p>
+<p><strong>from and to:</strong> are filled with a range of dates.</p>
+<p><strong>periodicity:</strong> could be yearly, quarterly or monthly.</p>
 <p>In this example, get all stocks means to repeat the process four times.</p>
 <pre class="r"><code> getSymbols.yahoo(Symbols = &quot;FB&quot;, env = globalenv(), return.class = &quot;xts&quot;, from = &quot;2020-01-30&quot;, to = &quot;2020-12-22&quot;,periodicity = &quot;weekly&quot;)</code></pre>
 <pre><code>## [1] &quot;FB&quot;</code></pre>
@@ -48,7 +51,7 @@ from and to are filled with a range of dates, periodicity could be yearly, quart
 ## 2020-03-16  152.32  159.93 137.10   149.73 183359800      149.73
 ## 2020-03-23  149.66  164.00 142.25   156.79 146892200      156.79
 ## 2020-03-30  159.18  170.93 150.83   154.18 112568700      154.18</code></pre>
-<p>The second way to do this process more efficient and short is using tidyquant library. The library has some functions incorporate in order to minimize code extension. One of those function is tq_get, really helpful for bring a numerous of stocks. tq_transmute gets stock returns with a daily periodicity and pivot_wider is increasing the number of columns and decreasing the number of rows.</p>
+<p>The second way to do this process more efficient and short is using tidyquant library. The library has some functions incorporate in order to minimize code extension. One of those function is <strong>tq_get</strong>, really helpful for bring a numerous of stocks. <strong>tq_transmute</strong> gets stock returns with a daily periodicity and <strong>pivot_wider</strong> is increasing the number of columns and decreasing the number of rows.</p>
 <pre class="r"><code>library(&quot;tidyquant&quot;)
 library(&quot;timetk&quot;)
 library(tidyr)
@@ -67,20 +70,23 @@ p_adj&lt;- stickers %&gt;%
   tk_xts()</code></pre>
 <pre class="r"><code>head(p_adj,10) </code></pre>
 <pre><code>##                FB    AMZN    GOOG     AAPL
-## 2019-01-31 166.69 1718.73 1116.37 40.58243
-## 2019-02-01 165.71 1626.23 1110.75 40.60194
-## 2019-02-04 169.25 1633.31 1132.80 41.75523
-## 2019-02-05 171.16 1658.81 1145.99 42.46964
-## 2019-02-06 170.49 1640.26 1115.23 42.48427
-## 2019-02-07 166.38 1614.37 1098.71 41.67965
-## 2019-02-08 167.33 1588.22 1095.06 41.72861
-## 2019-02-11 165.79 1591.00 1095.01 41.48864
-## 2019-02-12 165.04 1638.01 1121.37 41.84616
-## 2019-02-13 164.07 1640.00 1120.16 41.67229</code></pre>
+## 2019-01-31 166.69 1718.73 1116.37 40.51361
+## 2019-02-01 165.71 1626.23 1110.75 40.53309
+## 2019-02-04 169.25 1633.31 1132.80 41.68442
+## 2019-02-05 171.16 1658.81 1145.99 42.39762
+## 2019-02-06 170.49 1640.26 1115.23 42.41223
+## 2019-02-07 166.38 1614.37 1098.71 41.60897
+## 2019-02-08 167.33 1588.22 1095.06 41.65786
+## 2019-02-11 165.79 1591.00 1095.01 41.41829
+## 2019-02-12 165.04 1638.01 1121.37 41.77520
+## 2019-02-13 164.07 1640.00 1120.16 41.60163</code></pre>
 <p>Finally a good way to finish this post is visualizing our data.</p>
 <pre class="r"><code>quantmod::chart_Series(FB$FB.Adjusted, name = &quot;FB Adjusted Price&quot;)</code></pre>
 <p><img src="{{< blogdown/postref >}}index_files/figure-html/unnamed-chunk-6-1.png" width="672" /></p>
 <pre class="r"><code>quantmod::chart_Series(p_adj$AAPL, name=&quot;Apple Adjusted Price&quot;)</code></pre>
 <p><img src="{{< blogdown/postref >}}index_files/figure-html/unnamed-chunk-7-1.png" width="672" /></p>
-<p>In this post we learned ways to get financial time series from yahoo finance using quantmod and tidyquant. We saw quantmod functions like getSymbols and tq_get of tidyquant library, in one hand getSymbols brought an xts object in an easily but inefficient manner, and the other hand we automatized it with tq_get that brought us an amount of series efficiently.</p>
+<p>In this post we learned ways to get financial time series from yahoo finance using quantmod and tidyquant. We saw quantmod functions like <strong>getSymbols</strong> and <strong>tq_get</strong> of tidyquant library, in one hand getSymbols brought an xts object in an easily but inefficient manner, and the other hand we automatized it with <strong>tq_get</strong> that brought us an amount of series efficiently.</p>
+<div/>
+
+
 </div>
